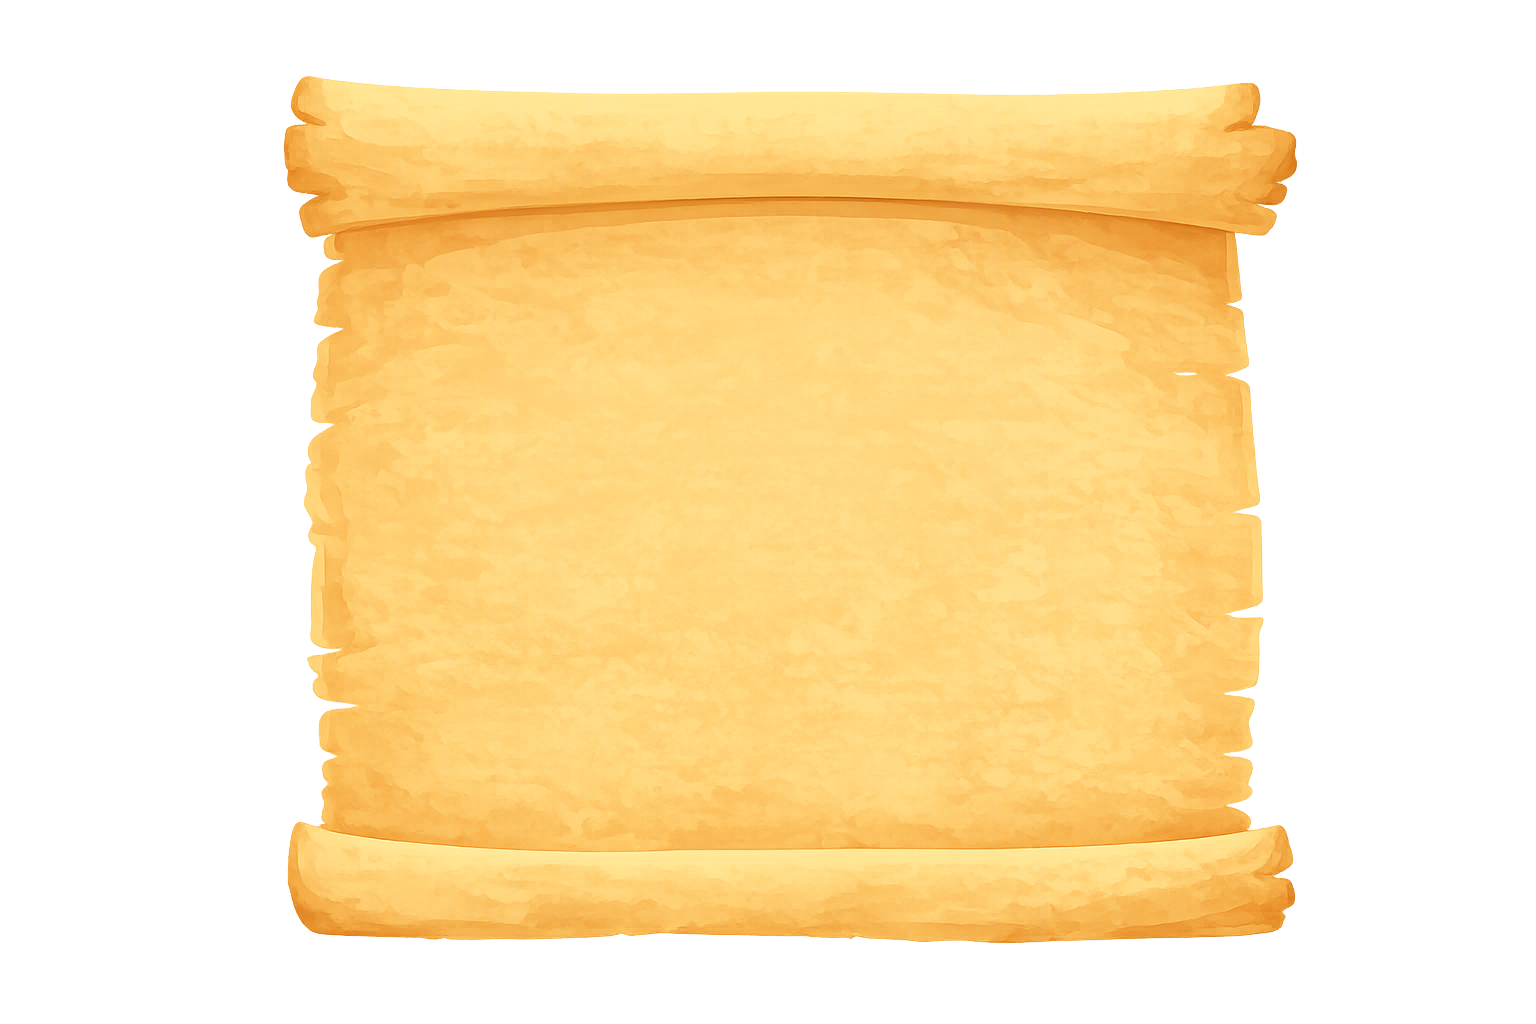
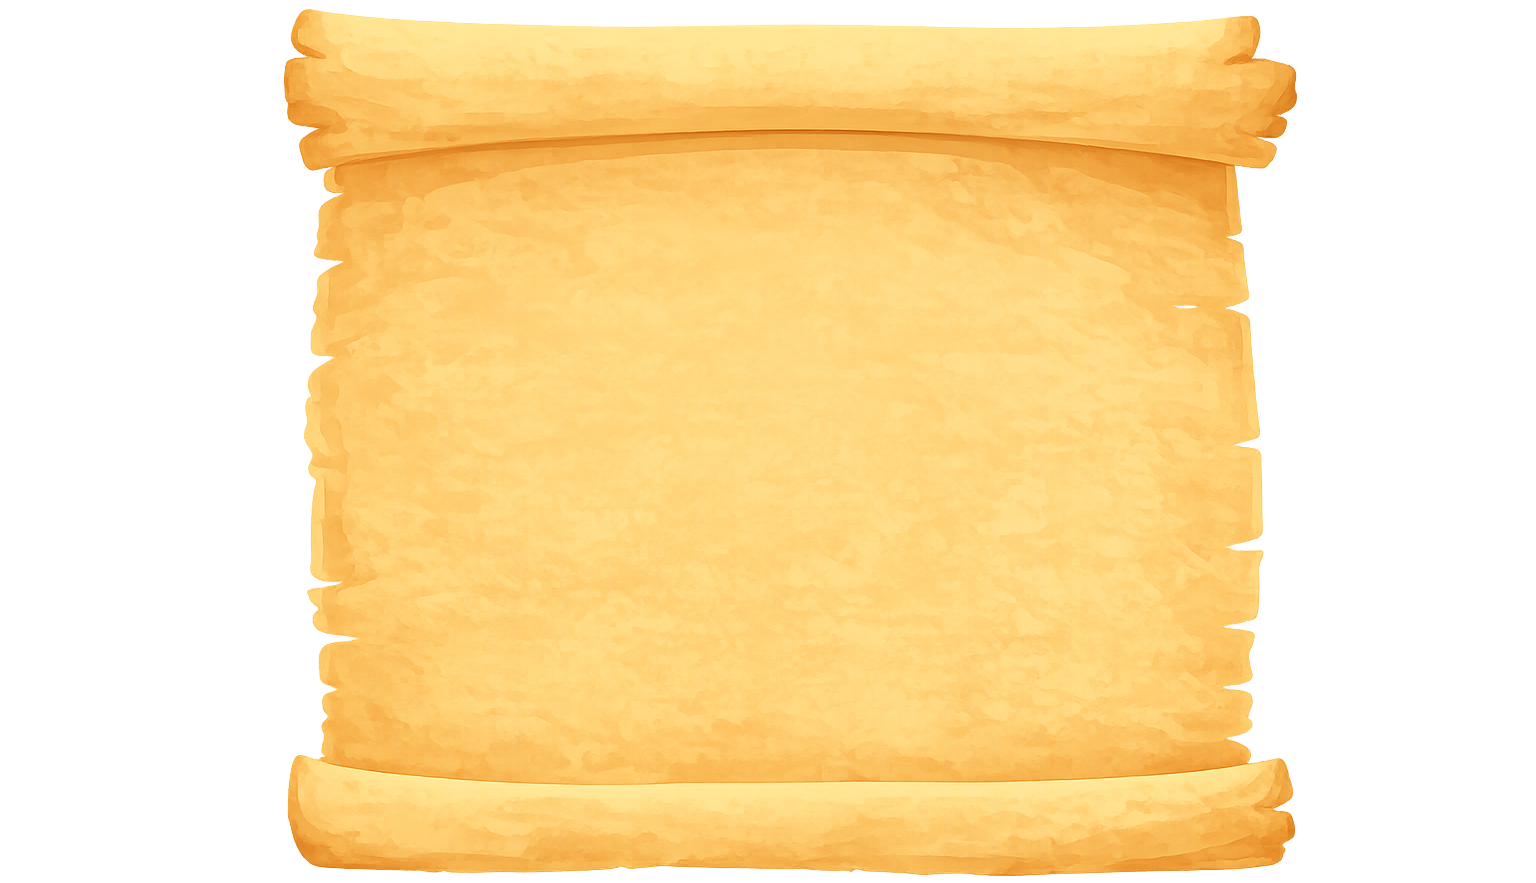
PC: parchemin_cadre une piÃ¨ce, 200px dÃ©file haut/bas, milieu statique

diff --git a/assets/css/style.scss b/assets/css/style.scss
@@ -347,6 +347,31 @@ $parchment-bottom-height: 120px;
   background-position: center bottom;
 }
 
+/* PC ≥ 1200px : parchemin_cadre en une pièce, défile sur 200px haut/bas puis milieu statique */
+@media (min-width: 1200px) {
+  .parchment {
+    background: url("{{ '/assets/images/parchemin_cadre.png' | relative_url }}") no-repeat top center;
+    background-size: calc(100% + 160px) 100%;
+    background-position: center top;
+  }
+
+  .parchment-top {
+    height: 200px;
+    min-height: 200px;
+    background: none;
+  }
+
+  .parchment-middle {
+    background: none;
+  }
+
+  .parchment-bottom {
+    height: 200px;
+    min-height: 200px;
+    background: none;
+  }
+}
+
 /* < 1200px : parchemin_mobile de la bannière au pied de page */
 @media (max-width: 1199px) {
   .page-wrapper {
